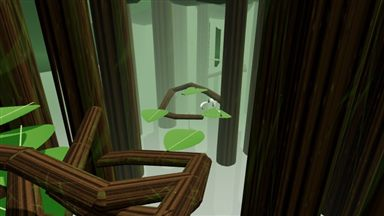
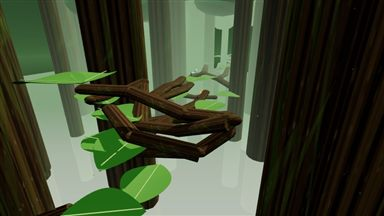
Branch Run: more branches, including long rolling paths that run along the way you travel

diff --git a/src/run.js b/src/run.js
@@ -110,16 +110,17 @@ export function buildRun(A, T) {
     // launch spurs: an arm reaching well forward toward the next tree coming, kicking up at its end like a ramp, to run
     // up and dash off; and a catch arm reaching back toward the tree behind, for those dashing in to land on
     const inRun = (P, z0, z1) => Math.abs(P.x) < LANE + 5 && P.z > z0 && P.z < z1;
-    const arm = (dir, z0, z1, lipUp) => { for (let tries = 0; tries < 14; tries++) {
-      const st = tree.ends.filter((e) => (dir < 0 ? e.z < 4 && e.y > 7 && e.y < 16 : e.z > -4 && e.y > 2 && e.y < 10)).sort(() => q() - 0.5)[0]; if (!st) return null; // (catch arms low, launch spurs high: you drop onto the next tree)
+    const arm = (dir, z0, z1, mode) => { const lipUp = mode === 'lip'; for (let tries = 0; tries < 14; tries++) {
+      const st = tree.ends.filter((e) => (mode === 'path' ? Math.abs(e.z) < 12 : dir < 0 ? e.z < 4 && e.y > 7 && e.y < 16 : e.z > -4 && e.y > 2 && e.y < 10)).sort(() => q() - 0.5)[0]; if (!st) return null; // (catch arms low, launch spurs high: you drop onto the next tree)
       const a = dir * Math.PI / 2 + (q() - 0.5) * 0.5, pts = [st]; let P = st;
-      for (let s = 0; s < 3; s++) { const L = 7 + q() * 2.5, last = s === 2, n = { x: P.x + Math.cos(a) * L, y: P.y + (lipUp ? (last ? 2.4 + q() * 1.2 : (q() - 0.5) * 1.2) : 0.9 + q() * 0.7), z: P.z + Math.sin(a) * L }; if (!inRun(n, z0, z1)) break; pts.push(n); P = n; } // (a catch arm rises gently out toward you: landing on it, you run downhill)
+      for (let s = 0, segs = mode === 'path' ? 4 : 3; s < segs; s++) { const L = 7 + q() * 2.5, last = s === segs - 1, n = { x: P.x + Math.cos(a) * L, y: P.y + (lipUp ? (last ? 2.4 + q() * 1.2 : (q() - 0.5) * 1.2) : mode === 'path' ? (q() - 0.5) * 2.2 : 0.9 + q() * 0.7), z: P.z + Math.sin(a) * L }; if (!inRun(n, z0, z1)) break; pts.push(n); P = n; } // (a catch arm rises gently out toward you: landing on it, you run downhill)
       if (pts.length < 3) continue;
       let p = null; for (let s = 1; s < pts.length; s++) p = branch(pts[s - 1], pts[s], s === 1 ? Math.max(2.6, st.w) : 2.8, s === pts.length - 1 ? 2.3 : 2.8);
       if (lipUp) p.launch = true; else if (q() < 0.6) { const end = pts[pts.length - 1], len = 11 + q() * 3; leaf({ x: end.x + Math.cos(a) * len * 0.45, z: end.z + Math.sin(a) * len * 0.45 }, len, 7 + q() * 2, a, end.y + 0.3); }
       return p; } return null; };
-    if (q() < 0.85) arm(-1, -36, 6, true); // forward: a launch spur, its lip about 30 m ahead of the trunk
-    arm(1, -6, 22, false); // back: a catch arm, its end about 18 m behind the trunk
+    if (q() < 0.85) arm(-1, -36, 6, 'lip'); // forward: a launch spur, its lip about 30 m ahead of the trunk
+    arm(1, -6, 22, 'catch'); // back: a catch arm, its end about 18 m behind the trunk
+    for (let n = 0, want = 2 + (q() * 2 | 0); n < want; n++) arm(n % 2 ? 1 : -1, -34, 24, 'path'); // paths: long, rolling arms running along the way you travel, to run down
     return tree;
   };
   for (let i = 0; i < N; i++) trees.push(mkTree(i));

diff --git a/src/main.js b/src/main.js
@@ -1,18 +1,18 @@
 import * as THREE from 'three';
-import { Arena, MAPS } from './arena.js?v=20261116033151';
-import { Fighter, PALETTE, GUARD, setMetalEnv, metalEnvFor } from './fighter.js?v=20261116033151';
-import { bakeMeshes, Pieces, Particles, splitSoup } from './slice.js?v=20261116033151';
-import { sfx, ensureAudio, setListener, setVolume, setMuted } from './audio.js?v=20261116033151';
-import * as net from './net.js?v=20261116033151';
-import { MODES, POINT_MODES, MODE_GOAL, ModeFx, makeCrown } from './modes.js?v=20261116033151';
-import { profile, addCoins, randomLook, cleanLook, item, cleanUp, upMul } from './cosmetics.js?v=20261116033151';
-import { makeKillFx } from './killfx.js?v=20261116033151';
-import { makeGrapple } from './grapple.js?v=20261116033151';
-import { initShop } from './shop.js?v=20261116033151';
-import { breakChunk, chunkSoup } from './dojo.js?v=20261116033151';
-import { portal } from './portal.js?v=20261116033151';
-import { Piranhas, GiantSaws, GiantBirds } from './piranha.js?v=20261116033151';
-import { makePost } from './post.js?v=20261116033151';
+import { Arena, MAPS } from './arena.js?v=20261116033253';
+import { Fighter, PALETTE, GUARD, setMetalEnv, metalEnvFor } from './fighter.js?v=20261116033253';
+import { bakeMeshes, Pieces, Particles, splitSoup } from './slice.js?v=20261116033253';
+import { sfx, ensureAudio, setListener, setVolume, setMuted } from './audio.js?v=20261116033253';
+import * as net from './net.js?v=20261116033253';
+import { MODES, POINT_MODES, MODE_GOAL, ModeFx, makeCrown } from './modes.js?v=20261116033253';
+import { profile, addCoins, randomLook, cleanLook, item, cleanUp, upMul } from './cosmetics.js?v=20261116033253';
+import { makeKillFx } from './killfx.js?v=20261116033253';
+import { makeGrapple } from './grapple.js?v=20261116033253';
+import { initShop } from './shop.js?v=20261116033253';
+import { breakChunk, chunkSoup } from './dojo.js?v=20261116033253';
+import { portal } from './portal.js?v=20261116033253';
+import { Piranhas, GiantSaws, GiantBirds } from './piranha.js?v=20261116033253';
+import { makePost } from './post.js?v=20261116033253';
 
 // ---------- settings ----------
 const store = {

diff --git a/src/arena.js b/src/arena.js
@@ -3,18 +3,18 @@
 // so collision and "what am I standing on" stay simple and identical in every browser.
 import * as THREE from 'three';
 import { buildPagoda, buildIsles, buildBowl } from './maps2.js';
-import { buildTilt } from './tilt.js?v=20261116033151';
-import { buildFoundry } from './foundry.js?v=20261116033151';
-import { buildBamboo } from './bamboo.js?v=20261116033151';
-import { buildCity } from './city.js?v=20261116033151';
-import { buildDojo } from './dojo.js?v=20261116033151';
-import { buildComet } from './comet.js?v=20261116033151';
-import { buildLava } from './lava.js?v=20261116033151';
-import { buildRun } from './run.js?v=20261116033151';
-import { buildGrove } from './grove.js?v=20261116033151';
-import { addScenery } from './scenery.js?v=20261116033151';
-import { addAtmosphere } from './atmos.js?v=20261116033151';
-import { makeMesa, mesaMesh } from './mesa.js?v=20261116033151';
+import { buildTilt } from './tilt.js?v=20261116033253';
+import { buildFoundry } from './foundry.js?v=20261116033253';
+import { buildBamboo } from './bamboo.js?v=20261116033253';
+import { buildCity } from './city.js?v=20261116033253';
+import { buildDojo } from './dojo.js?v=20261116033253';
+import { buildComet } from './comet.js?v=20261116033253';
+import { buildLava } from './lava.js?v=20261116033253';
+import { buildRun } from './run.js?v=20261116033253';
+import { buildGrove } from './grove.js?v=20261116033253';
+import { addScenery } from './scenery.js?v=20261116033253';
+import { addAtmosphere } from './atmos.js?v=20261116033253';
+import { makeMesa, mesaMesh } from './mesa.js?v=20261116033253';
 const NONE = [];
 const _bm = new THREE.Matrix4(), _bp = new THREE.Vector3(), _bq = new THREE.Quaternion(), _bs = new THREE.Vector3(), _UP = new THREE.Vector3(0, 1, 0); // bamboo instance updates
 

diff --git a/index.html b/index.html
@@ -4,7 +4,7 @@
 <meta charset="utf-8">
 <meta name="viewport" content="width=device-width,initial-scale=1">
 <title>Sever</title>
-<meta name="build" content="20261116033151">
+<meta name="build" content="20261116033253">
 <link rel="icon" href="data:,">
 <script>
 // Stale-page guard (as in Splatline): if version.json names a newer build than this page, reload once.
@@ -185,12 +185,12 @@ window.severVersion.check();
 <script type="importmap">
 { "imports": {
   "three": "./vendor/three.module.min.js",
-  "./src/main.js": "./src/main.js?v=20261116033151",
-  "./src/arena.js": "./src/arena.js?v=20261116033151",
-  "./src/fighter.js": "./src/fighter.js?v=20261116033151",
-  "./src/slice.js": "./src/slice.js?v=20261116033151",
-  "./src/audio.js": "./src/audio.js?v=20261116033151",
-  "./src/net.js": "./src/net.js?v=20261116033151"
+  "./src/main.js": "./src/main.js?v=20261116033253",
+  "./src/arena.js": "./src/arena.js?v=20261116033253",
+  "./src/fighter.js": "./src/fighter.js?v=20261116033253",
+  "./src/slice.js": "./src/slice.js?v=20261116033253",
+  "./src/audio.js": "./src/audio.js?v=20261116033253",
+  "./src/net.js": "./src/net.js?v=20261116033253"
 } }
 </script>
 </head>
@@ -344,6 +344,6 @@ window.severVersion.check();
 <div id="toast" style="opacity:0"></div>
 <div id="loading">Loading…</div>
 <noscript><p style="position:fixed;inset:0;display:flex;align-items:center;justify-content:center">Sever needs JavaScript and WebGL.</p></noscript>
-<script type="module" src="src/main.js?v=20261116033151"></script>
+<script type="module" src="src/main.js?v=20261116033253"></script>
 </body>
 </html>

diff --git a/src/shop.js b/src/shop.js
@@ -1,10 +1,10 @@
 // The shop screen: browse by category, try things on a turning, swinging preview fighter, buy and equip.
 import * as THREE from 'three';
-import { Fighter, PALETTE, setMetalEnv, metalEnvFor } from './fighter.js?v=20261116033151';
-import { Particles, Pieces, bakeMeshes } from './slice.js?v=20261116033151';
-import { makeKillFx } from './killfx.js?v=20261116033151';
-import { makeGrapple } from './grapple.js?v=20261116033151';
-import { CATEGORIES, CATALOG, item, profile, owns, buy, equip, UPGRADES, UP_MAX, UP_PRICES, buyUpgrade, upText, tierOf } from './cosmetics.js?v=20261116033151';
+import { Fighter, PALETTE, setMetalEnv, metalEnvFor } from './fighter.js?v=20261116033253';
+import { Particles, Pieces, bakeMeshes } from './slice.js?v=20261116033253';
+import { makeKillFx } from './killfx.js?v=20261116033253';
+import { makeGrapple } from './grapple.js?v=20261116033253';
+import { CATEGORIES, CATALOG, item, profile, owns, buy, equip, UPGRADES, UP_MAX, UP_PRICES, buyUpgrade, upText, tierOf } from './cosmetics.js?v=20261116033253';
 
 const $ = (id) => document.getElementById(id);
 const hex = (c) => '#' + c.toString(16).padStart(6, '0');

diff --git a/src/city.js b/src/city.js
@@ -3,9 +3,9 @@
 // breakable chunks as the Paper Dojo: every window pane shatters, office partitions and crates break, and the
 // steel frames (unbreakable) are there to swing from, run along and stand on.
 import * as THREE from 'three';
-import { cloudHeaps } from './scenery.js?v=20261116033151';
+import { cloudHeaps } from './scenery.js?v=20261116033253';
 import { deck, prop } from './maps2.js';
-import { kindMats, chunk, group, wall, stack, finishBrk, kill } from './dojo.js?v=20261116033151';
+import { kindMats, chunk, group, wall, stack, finishBrk, kill } from './dojo.js?v=20261116033253';
 
 const TAU = Math.PI * 2;
 const std = (color, o = {}) => new THREE.MeshStandardMaterial({ color, roughness: 0.8, ...o });

diff --git a/src/fighter.js b/src/fighter.js
@@ -2,8 +2,8 @@
 // cleanly), posed each frame with a long-striding run cycle, two-bone IK for arms and legs, and a sword
 // driven by the swing input (s.x, s.y).
 import * as THREE from 'three';
-import { buildBody, poseBody } from './body.js?v=20261116033151';
-import { item, cleanLook } from './cosmetics.js?v=20261116033151';
+import { buildBody, poseBody } from './body.js?v=20261116033253';
+import { item, cleanLook } from './cosmetics.js?v=20261116033253';
 
 // Every material that can end up on a sliced piece is registered here, so a piece's single mesh can use
 // one shared material array and keep each triangle's look.

diff --git a/src/maps2.js b/src/maps2.js
@@ -3,7 +3,7 @@
 //   Pagoda Falls: a three-tier pagoda at sunset, stone islands, rock spires and terraces, red lacquer posts.
 //   Moonlit Isles: floating grass islands at night, a great cherry tree, rope bridges, bamboo groves.
 import * as THREE from 'three';
-import { buildMaw, mawY, buildTendrils } from './maw.js?v=20261116033151';
+import { buildMaw, mawY, buildTendrils } from './maw.js?v=20261116033253';
 
 const TAU = Math.PI * 2;
 const std = (color, o = {}) => new THREE.MeshStandardMaterial({ color, roughness: 0.8, ...o });

diff --git a/src/tilt.js b/src/tilt.js
@@ -5,7 +5,7 @@
 // whoever is on it; a new one is hung back on 10 s later.
 import * as THREE from 'three';
 import { drift } from './maps2.js';
-import { cloudHeaps } from './scenery.js?v=20261116033151';
+import { cloudHeaps } from './scenery.js?v=20261116033253';
 
 const TAU = Math.PI * 2, N = 6, R = 14, DISH = 1.9, ARM = 25, L = 22, HUB = 40, MAXOFF = 2; // platforms, radius, dish depth, crown arm, chain, crown height, extra swing
 const std = (color, o = {}) => new THREE.MeshStandardMaterial({ color, roughness: 0.7, ...o });

diff --git a/src/piranha.js b/src/piranha.js
@@ -1,7 +1,7 @@
 // Great Canopy: fall too low and a giant piranha bursts out of the swamp, jaws wide, snaps you up and dives back in.
 // Purely visual (every client plays it locally when it sees a fall death on that map).
 import * as THREE from 'three';
-import { bladeMesh } from './foundry.js?v=20261116033151';
+import { bladeMesh } from './foundry.js?v=20261116033253';
 
 const TAU = Math.PI * 2;
 const std = (color, o = {}) => new THREE.MeshStandardMaterial({ color, roughness: 0.55, metalness: 0.15, ...o });

diff --git a/src/killfx.js b/src/killfx.js
@@ -1,8 +1,8 @@
 // Kill effects from the shop: what happens to someone you cut down. The body still splits along your
 // cut; the effect changes what sprays out, what the pieces leak, and what becomes of them.
 import * as THREE from 'three';
-import { Particles } from './slice.js?v=20261116033151';
-import { sfx } from './audio.js?v=20261116033151';
+import { Particles } from './slice.js?v=20261116033253';
+import { sfx } from './audio.js?v=20261116033253';
 
 const R = () => Math.random() - 0.5;
 

diff --git a/src/bamboo.js b/src/bamboo.js
@@ -5,7 +5,7 @@
 // them (and come back a few seconds later for the next fighter).
 import * as THREE from 'three';
 import { deck, prop, stalk, drift, farRing } from './maps2.js';
-import { kindMats, chunk, join, group, wall, stack, finishBrk, kill } from './dojo.js?v=20261116033151';
+import { kindMats, chunk, join, group, wall, stack, finishBrk, kill } from './dojo.js?v=20261116033253';
 
 const TAU = Math.PI * 2, HALF = 30, TILE = 1.5;
 
